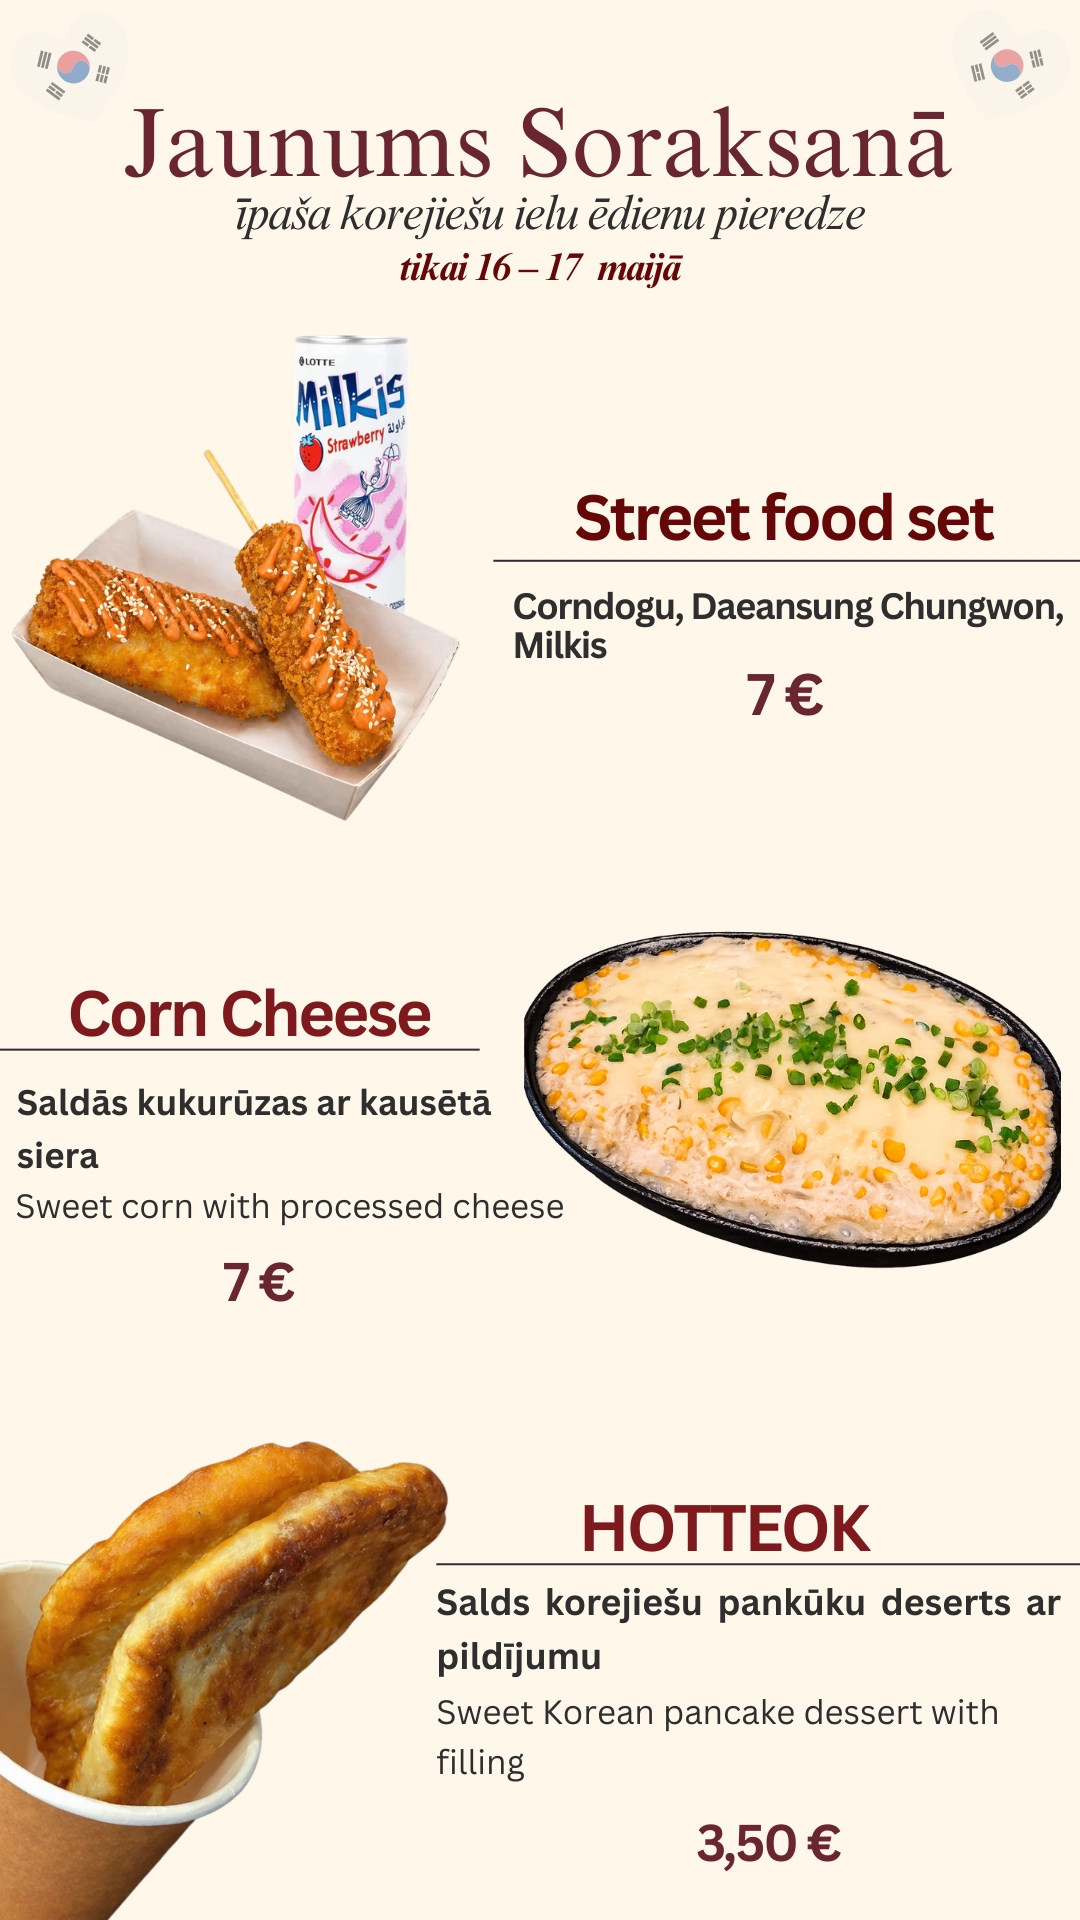
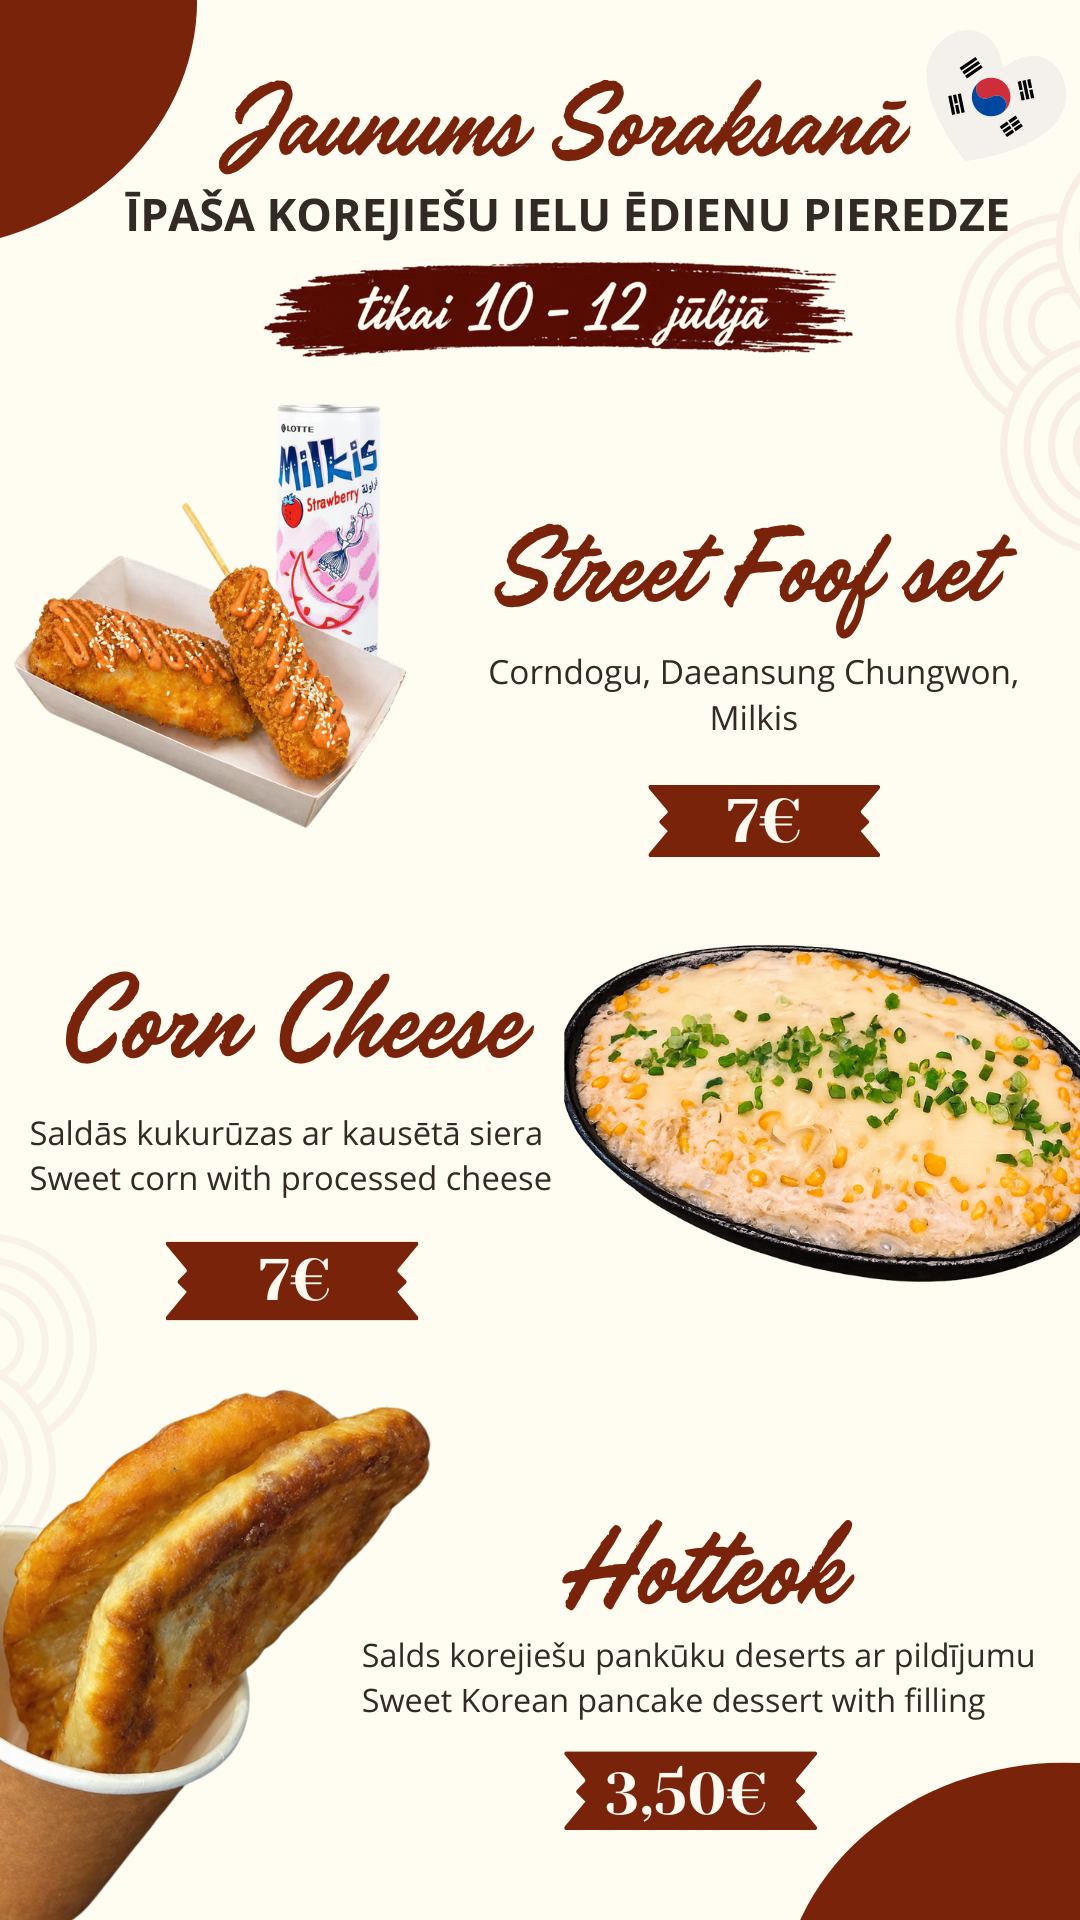
upd

diff --git a/index.html b/index.html
@@ -30,7 +30,7 @@
 
   <img class="menu-image" src="1.png" alt="Menu Page 1">
   <img class="menu-image" src="2.png" alt="Menu Page 2">
-  <!--<img class="menu-image" src="new2.png" alt="Menu Page New">-->
+  <img class="menu-image" src="special new offer.png" alt="Menu Page New">
   <img class="menu-image" src="new1.png" alt="Menu Page New">
   <img class="menu-image" src="lunch1.png" alt="Menu Page Lunch">
   <img class="menu-image" src="lunch.png" alt="Menu Page Lunch">